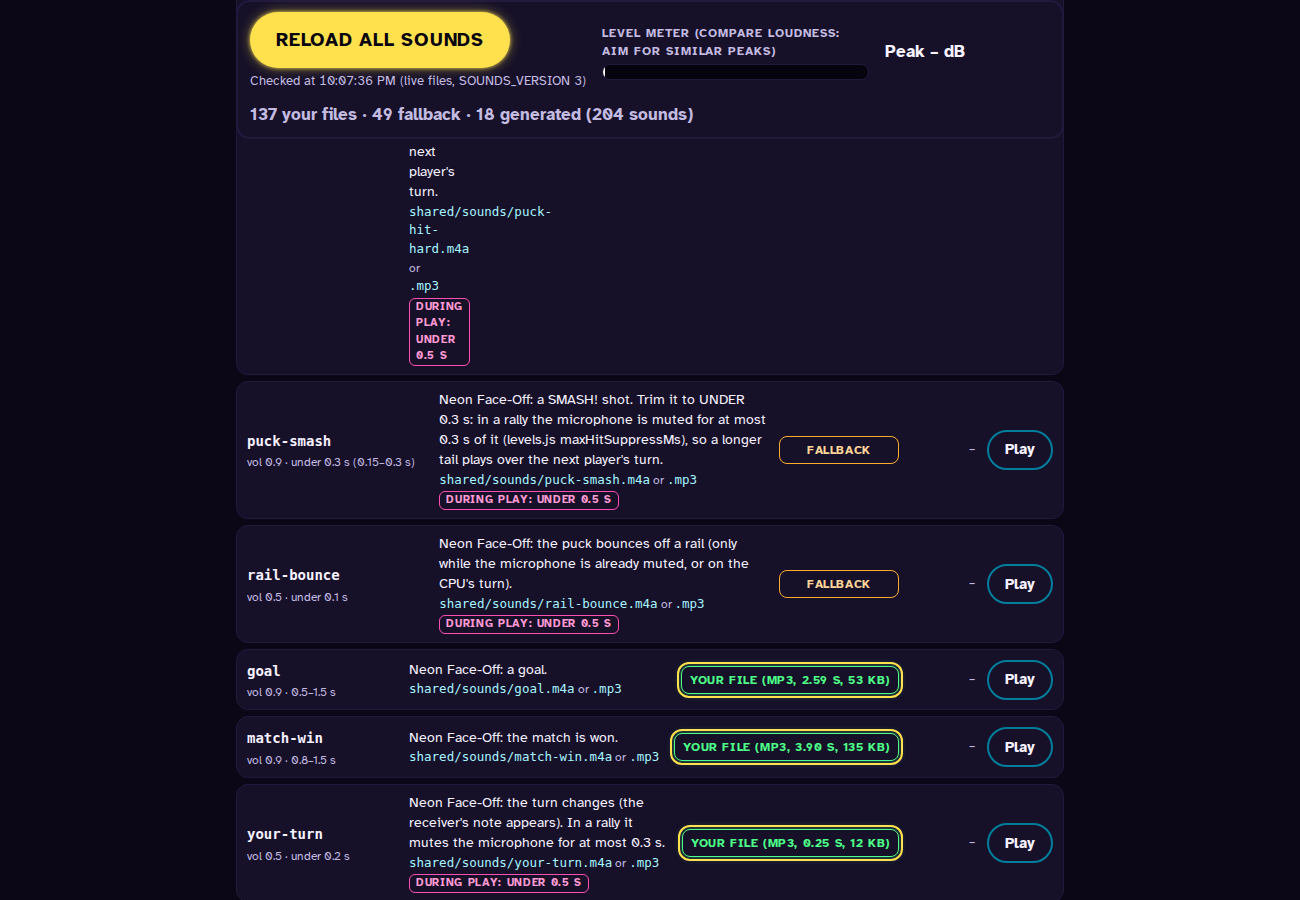
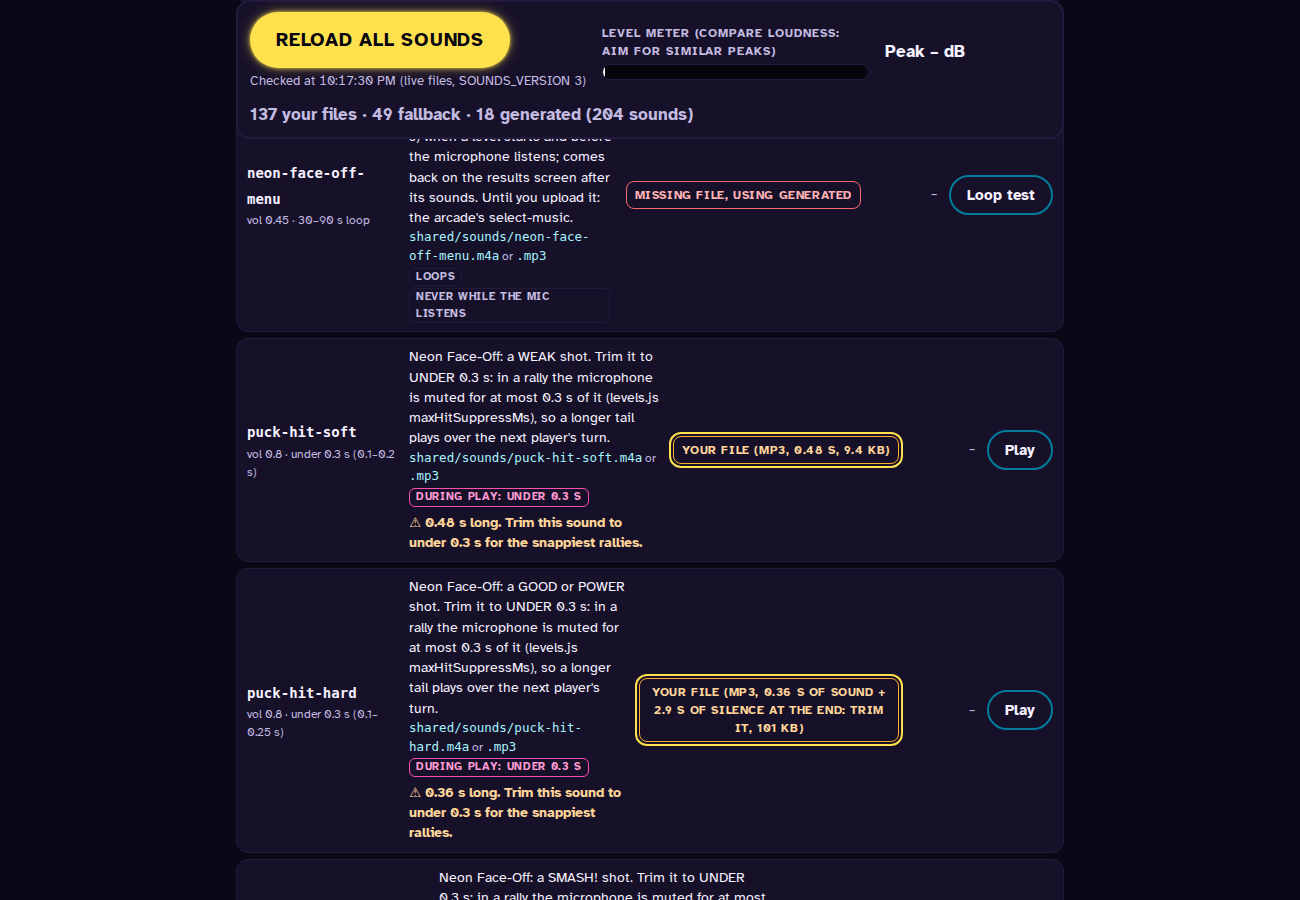
Sound Board: the too-long warning on its own line; the during-play tag shows a sound's own limit
Claude-Session: https://claude.ai/code/session_01Tvw8cZ3CgwydkSSoipP226

diff --git a/sound-board/index.html b/sound-board/index.html
@@ -45,6 +45,8 @@
   .sb-status.fallback{border-color:var(--amber);color:var(--amber-hi)}
   .sb-status.generated{border-color:var(--red);color:var(--red-hi)}
   .sb-status.too-long{border-color:var(--amber);color:var(--amber-hi);box-shadow:none}
+  .sb-status{max-width:260px}
+  .sb-warn{margin:6px 0 0;font-weight:700;color:var(--amber-hi)}
   .sb-peak{font-variant-numeric:tabular-nums;font-size:13px;color:var(--text-lo);min-width:8ch;text-align:right}
   .sb-play{min-height:40px;padding:6px 16px;font-size:15px}
   .sb-loop{display:flex;flex-wrap:wrap;gap:8px;align-items:center;margin:8px 0 0;padding:10px;border-radius:12px;background:var(--deep);border:1px dashed var(--cyan-ink)}
@@ -113,11 +115,11 @@
   $('groups').innerHTML = S.SCREENS.filter(([k]) => byScreen[k]).map(([k, label]) =>
     `<h2 class="sb-group">${label}</h2><div class="sb-list">` + byScreen[k].map(n => {
       const e = S.get(n);
-      const tags = [e.loop && '<span class="sb-tag">loops</span>', e.play && '<span class="sb-tag play">during play: under 0.5 s</span>',
+      const tags = [e.loop && '<span class="sb-tag">loops</span>', e.play && `<span class="sb-tag play">during play: under ${e.maxLen || 0.5} s</span>`,
         e.mic === false && '<span class="sb-tag">never while the mic listens</span>', e.fallback && `<span class="sb-tag">else ${e.fallback}</span>`].filter(Boolean).join('');
       return `<div class="sb-row" data-n="${n}">` +
         `<div class="sb-name"><b>${n}</b><small>vol ${e.vol == null ? .8 : e.vol} · ${esc(e.len || '')}</small></div>` +
-        `<div class="sb-when">${esc(e.when || '')}<small><code>shared/sounds/${e.file}.m4a</code> or <code>.mp3</code></small>${tags}</div>` +
+        `<div class="sb-when">${esc(e.when || '')}<small><code>shared/sounds/${e.file}.m4a</code> or <code>.mp3</code></small>${tags}<p class="sb-warn" data-warn hidden></p></div>` +
         `<span class="sb-status" data-status>not checked</span>` +
         `<span class="sb-peak" data-peak>–</span>` +
         (e.loop ? `<button type="button" class="btn btn-ghost sb-play" data-loop>Loop test</button>` : `<button type="button" class="btn btn-ghost sb-play" data-play>Play</button>`) +
@@ -170,7 +172,8 @@
       : st.kind === 'fallback' ? (st.via ? `Fallback (${st.via})` : 'Fallback') : 'Missing file, using generated';
     // sounds.js maxLen (s): a sound that must stay short (Neon Face-Off's puck sounds): say so when the file is longer
     const e = A.Sounds.LIST[n] || {}, long = st.kind === 'file' && e.maxLen && st.dur > e.maxLen + .005;
-    if (long) text += ` ⚠ Trim this sound to under ${e.maxLen} s for the snappiest rallies`;
+    const warn = document.querySelector(`#groups .sb-row[data-n="${n}"] [data-warn]`);
+    if (warn) { warn.hidden = !long; warn.textContent = long ? `⚠ ${st.dur.toFixed(2)} s long. Trim this sound to under ${e.maxLen} s for the snappiest rallies.` : ''; }
     const changed = mark && el.dataset.last && el.dataset.last !== text;
     el.className = 'sb-status ' + st.kind + (changed ? ' changed' : '') + (long ? ' too-long' : '');
     el.textContent = text;
